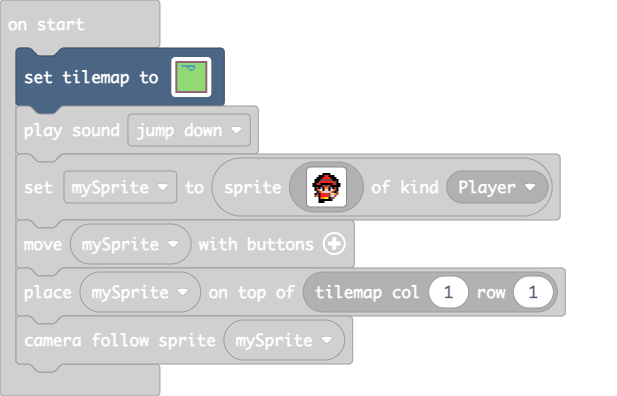
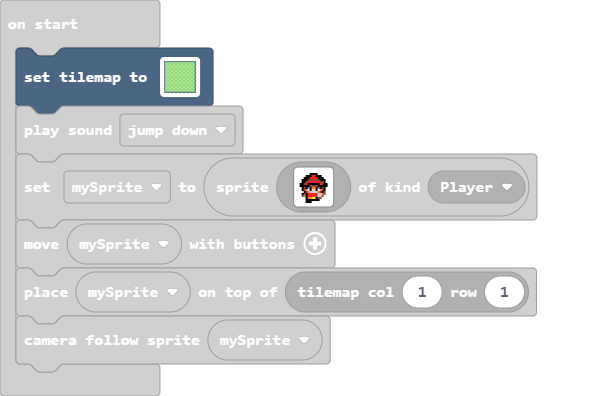
Update main.blocks, main.ts

diff --git a/main.ts b/main.ts
@@ -1,21 +1,29 @@
-tiles.setTilemap(tiles.createTilemap(hex`1000100002020202020202020202020202020202020101010101010101010101010101020201010303030303030301010101010202010101010103010103010101010102020101010101010303010101010101020201010101010101010101010101010202010101010101010101010101010102020101010101010101010101010101020201010101010101010101010101010202010101010101010101010101010102020101010101010101010101010101020201010101010101010101010101010202010101010101010101010101010102020101010101010101010101010101020201010101010101010101010101010202020202020202020202020202020202`, img`
-    . . . . . . . . . . . . . . . . 
-    . . . . . . . . . . . . . . . . 
-    . . . . . . . . . . . . . . . . 
-    . . . . . . . . . . . . . . . . 
-    . . . . . . . . . . . . . . . . 
-    . . . . . . . . . . . . . . . . 
-    . . . . . . . . . . . . . . . . 
-    . . . . . . . . . . . . . . . . 
-    . . . . . . . . . . . . . . . . 
-    . . . . . . . . . . . . . . . . 
-    . . . . . . . . . . . . . . . . 
-    . . . . . . . . . . . . . . . . 
-    . . . . . . . . . . . . . . . . 
-    . . . . . . . . . . . . . . . . 
-    . . . . . . . . . . . . . . . . 
-    . . . . . . . . . . . . . . . . 
-    `, [myTiles.transparency16,sprites.castle.tileGrass2,sprites.builtin.forestTiles25,sprites.castle.tileDarkGrass2], TileScale.Sixteen))
+tiles.setTilemap(tiles.createTilemap(hex`18001800030707070707070707070707070707070707070707070702090101010101010101010101010101010101010101010106090101010101010101010101010101010101010101010106090101010101010101010101010101010101010101010106090101010101010101010101010101010101010101010106090101010101010101010101010101010101010101010106090101010101010101010101010101010101010101010106090101010101010101010101010101010101010101010106090101010101010101010101010101010101010101010106090101010101010101010101010101010101010101010106090101010101010101010101010101010101010101010106090101010101010101010101010101010101010101010106090101010101010101010101010101010101010101010106090101010101010101010101010101010101010101010106090101010101010101010101010101010101010101010106090101010101010101010101010101010101010101010106090101010101010101010101010101010101010101010106090101010101010101010101010101010101010101010106090101010101010101010101010101010101010101010106090101010101010101010101010101010101010101010106090101010101010101010101010101010101010101010106090101010101010101010101010101010101010101010106090101010101010101010101010101010101010101010106040808080808080808080808080808080808080808080805`, img`
+    222222222222222222222222
+    2......................2
+    2......................2
+    2......................2
+    2......................2
+    2......................2
+    2......................2
+    2......................2
+    2......................2
+    2......................2
+    2......................2
+    2......................2
+    2......................2
+    2......................2
+    2......................2
+    2......................2
+    2......................2
+    2......................2
+    2......................2
+    2......................2
+    2......................2
+    2......................2
+    2......................2
+    222222222222222222222222
+    `, [myTiles.transparency16,sprites.castle.tileGrass2,sprites.dungeon.greenInnerNorthEast,sprites.dungeon.greenInnerNorthWest,sprites.dungeon.greenInnerSouthWest,sprites.dungeon.greenInnerSouthEast,sprites.dungeon.greenOuterWest1,sprites.dungeon.greenOuterSouth1,sprites.dungeon.greenOuterNorth0,sprites.dungeon.greenOuterEast0], TileScale.Sixteen))
 music.jumpDown.play()
 let mySprite = sprites.create(img`
     . . . . . . . . . . . . . . . . 
